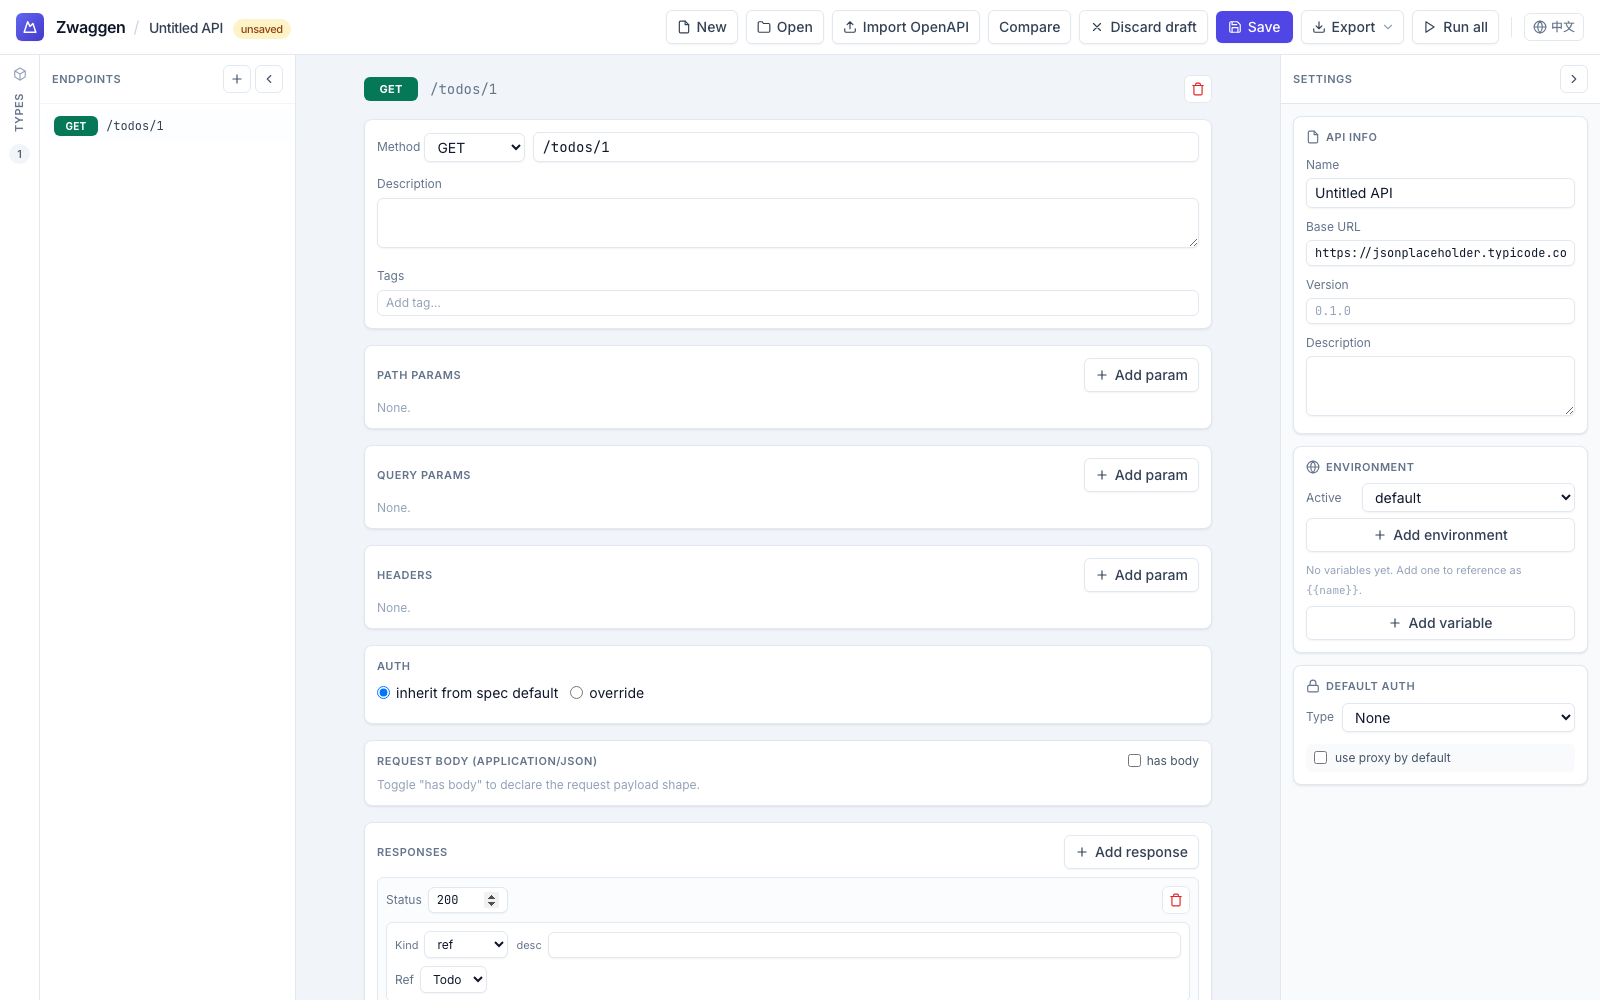
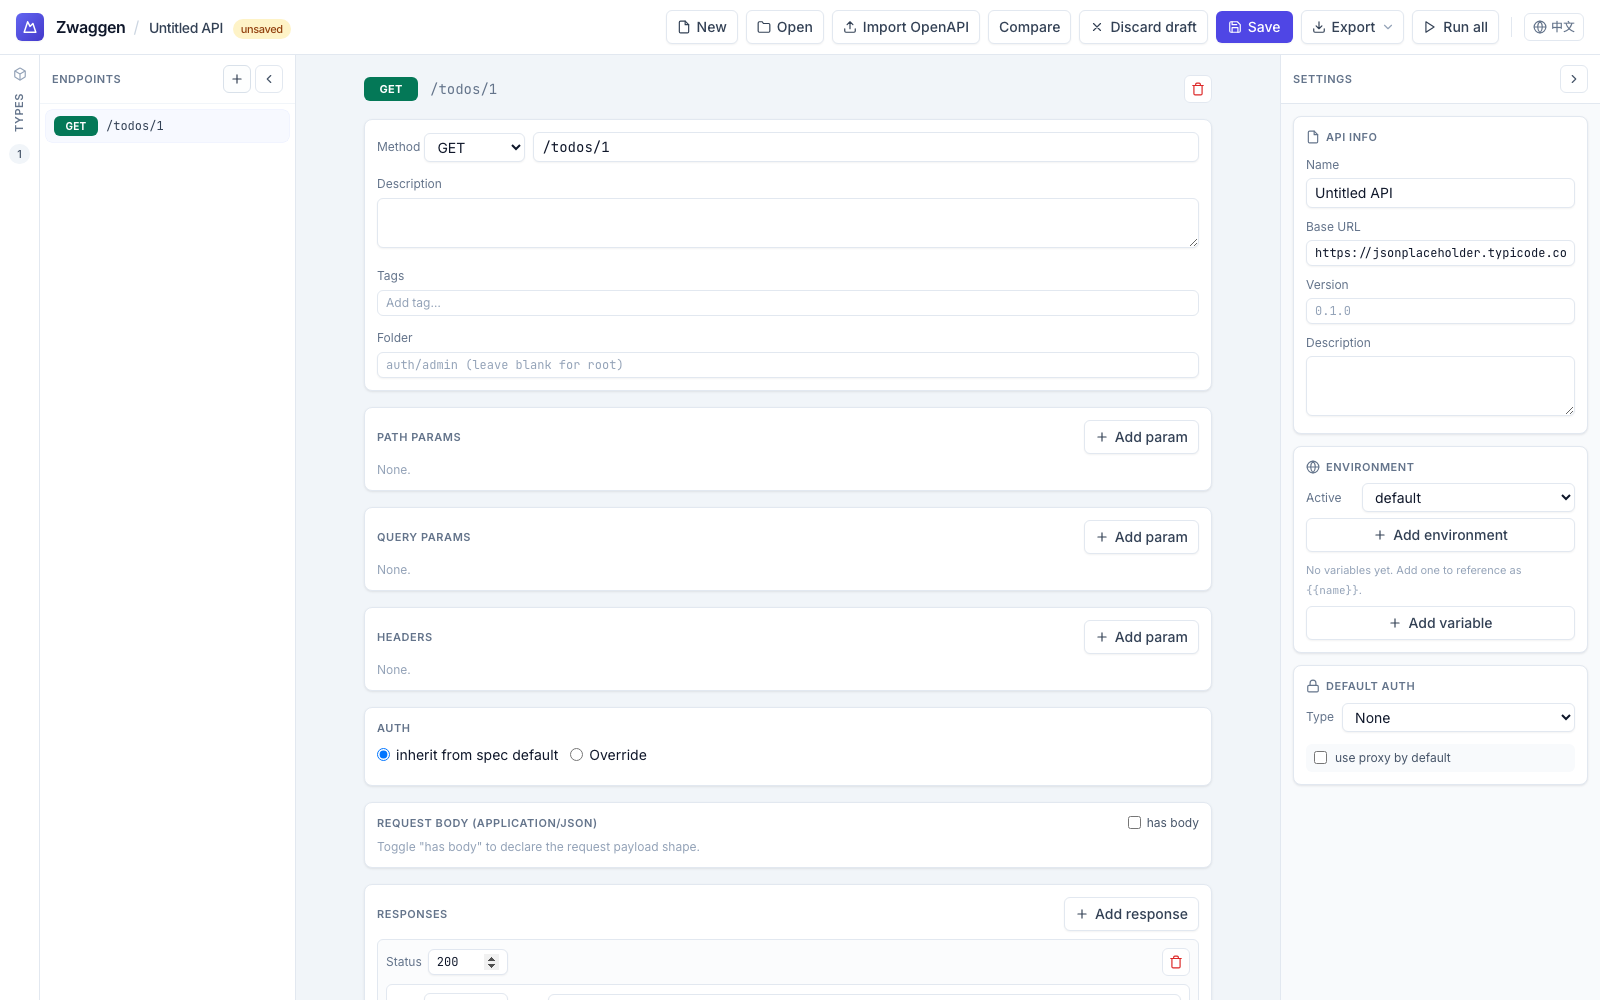
docs(screenshots): refresh the 3 screenshots whose UI actually changed
Feature-driven changes:
- quickstart-type-builder.png (+7.3KB): shows the new Extends picker
  now rendered above the fields list in the object editor.
- quickstart-endpoint.png + endpoint-editor.png (+354B / +390B): show
  the new Folder input in the endpoint editor's metadata card.

Left untouched: 10 other screenshots. Five of them re-rendered with
sub-400-byte deltas (antialiasing + font-subpixel drift, no visible
UI change) and were reverted to avoid noise commits; five are
byte-identical with the baseline.

Fixed one brittle selector in docs-screenshots-guide.spec.ts: the
endpoint auth-override radio lookup used exact="override" but the
locale string changed to "Override" (capital O) when the
type-extension feature arrived and needed that key as its button
label. Case-insensitive aliases would be more robust long-term.

diff --git a/apps/web/e2e/docs-screenshots-guide.spec.ts b/apps/web/e2e/docs-screenshots-guide.spec.ts
@@ -161,7 +161,7 @@ test.describe('docs screenshots — guide pages', () => {
     // Auth — override → Bearer (scope to the endpoint's Auth section, avoiding
     // the sidebar's global Auth controls).
     const mainScope = page.getByRole('main');
-    await mainScope.getByRole('radio', { name: 'override', exact: true }).check();
+    await mainScope.getByRole('radio', { name: 'Override', exact: true }).check();
     await mainScope.getByLabel('Auth type').selectOption('bearer');
     await mainScope.getByLabel('Token').fill('{{env.apiToken}}');
 
